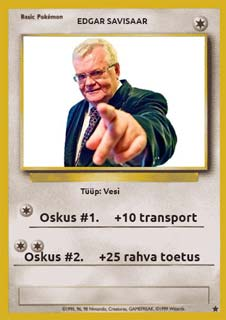
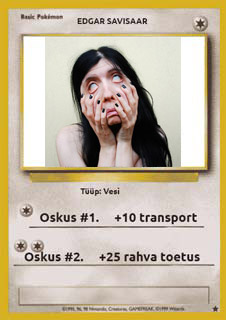
Plagiaadi korrastus

diff --git a/e-valimised/war/haaletamine.html b/e-valimised/war/haaletamine.html
@@ -72,16 +72,16 @@
 							
 							<tr>
 								<td  id="keskele"><input type="radio" name="radioB"/></td>
-								<td>Edgars Savisaar</td>
+								<td>Diego Sanchez</td>
 								<td id="keskele">994</td>
-								<td>Keskerakond</td>
+								<td>Keskmine erakond</td>
 								<td>Harjumaa</td>
 								<td id="keskele"><a class="poke" href="#">Lisa info.<img src="images/ets.jpg">
 							</tr>
 							
 							<tr>
 								<td id="keskele"><input type="radio" name="radioB"/></td>
-								<td>Mesine Mees</td>
+								<td>Pedro Guarana</td>
 								<td id="keskele">213</td>
 								<td>Lefterakond</td>
 								<td>Tartumaa</td>
@@ -90,11 +90,11 @@
 							</tr>							
 							<tr>
 								<td  id="keskele"><input type="radio" name="radioB"/></td>
-								<td>..</td>
-								<td>..</td>
-								<td>..</td>
-								<td>..</td>
-								<td>..</td>
+								<td>Fred Fred</td>
+								<td id="keskele">1337</td>
+								<td>Mehhikond</td>
+								<td>Hiiumaa</td>
+								<td id="keskele">Lisa info.</td>
 							</tr>							
 							<tr>
 								<td id="keskele"><input type="radio" name="radioB"/></td>

diff --git a/e-valimised/war/index.html b/e-valimised/war/index.html
@@ -18,7 +18,9 @@
 </head>
 
 <body>
-
+	<div id="fakebanner">
+	<p>Tegemist ei ole õigete valimistega!! Tegemist ei ole õigete valimistega!! Tegemist ei ole õigete valimistega!! Tegemist ei ole õigete valimistega!! Tegemist ei ole õigete valimistega!! Tegemist ei ole õigete valimistega!!</p>
+	</div>
 	<div id="container">
 	<div id="top">    	
 		<div id="navbar">
@@ -64,6 +66,9 @@
     
     </div>
 	</div>	
+	<div id="fakebanner">
+	<p>Tegemist ei ole õigete valimistega!! Tegemist ei ole õigete valimistega!! Tegemist ei ole õigete valimistega!! Tegemist ei ole õigete valimistega!! Tegemist ei ole õigete valimistega!! Tegemist ei ole õigete valimistega!!</p>
+	</div>
 </body>
 
 

diff --git a/e-valimised/war/tulemused.html b/e-valimised/war/tulemused.html
@@ -103,10 +103,10 @@
 
 	  <tr>
 	    <td>1</td>
-	    <td><a class="poke" href="#">Edgar Savisaar<img src="images/ets.jpg" ></img></a></td>
+	    <td><a class="poke" href="#">Diago Sanchez<img src="images/ets.jpg" ></img></a></td>
 	    <td>994</td>
 	    <td>9001</td>
-	    <td>Keskerakond</td>
+	    <td>Keskmine erakond</td>
 	    <td>Harju</td>
       </tr>
 	  <tr>
@@ -119,7 +119,7 @@
       </tr>
 	  <tr>
 	    <td>3</td>
-	    <td>Metsa Mees</td>
+	    <td>Frederic Function</td>
 	    <td>112</td>
 	    <td>2</td>
 	    <td>Omaerakond</td>

diff --git a/e-valimised/war/css/styles.css b/e-valimised/war/css/styles.css
@@ -1,5 +1,10 @@
 @import url(http://fonts.googleapis.com/css?family=Abel);
 
+#fakebanner{
+	color:red;
+	text-align:center;
+}
+
 #container{
 	font-family: 'Abel', 'Times New Roman';
 	width: 70%;
